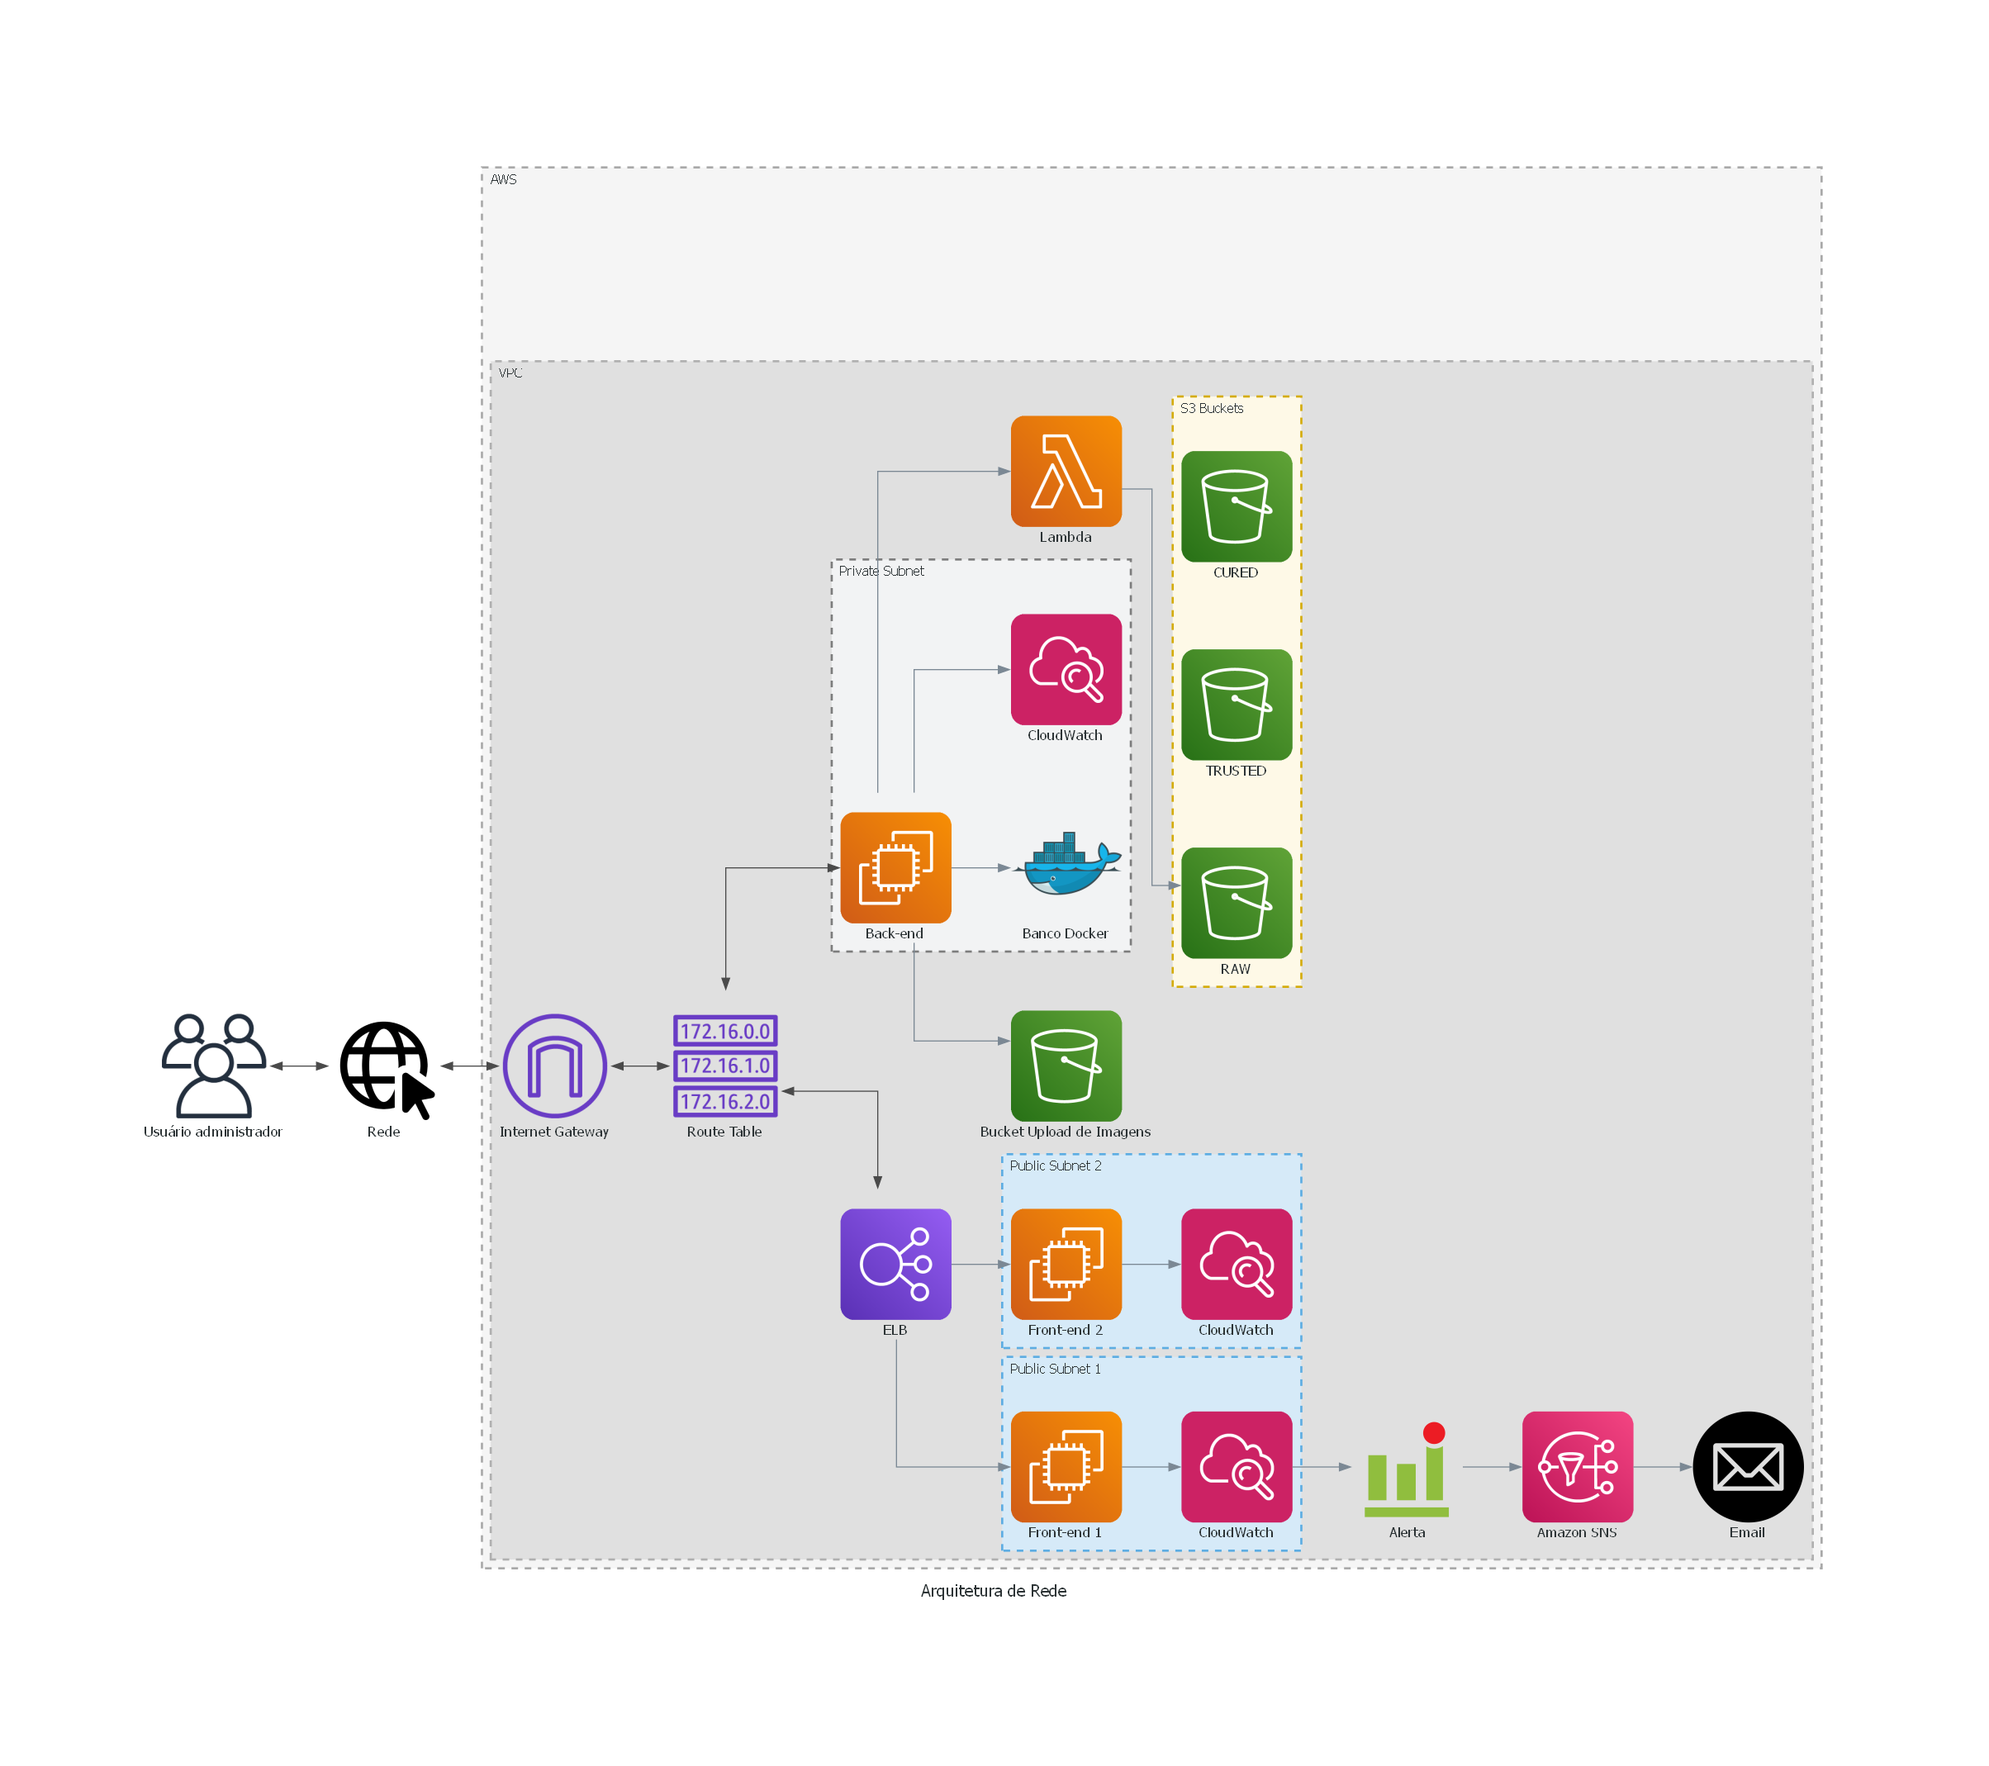
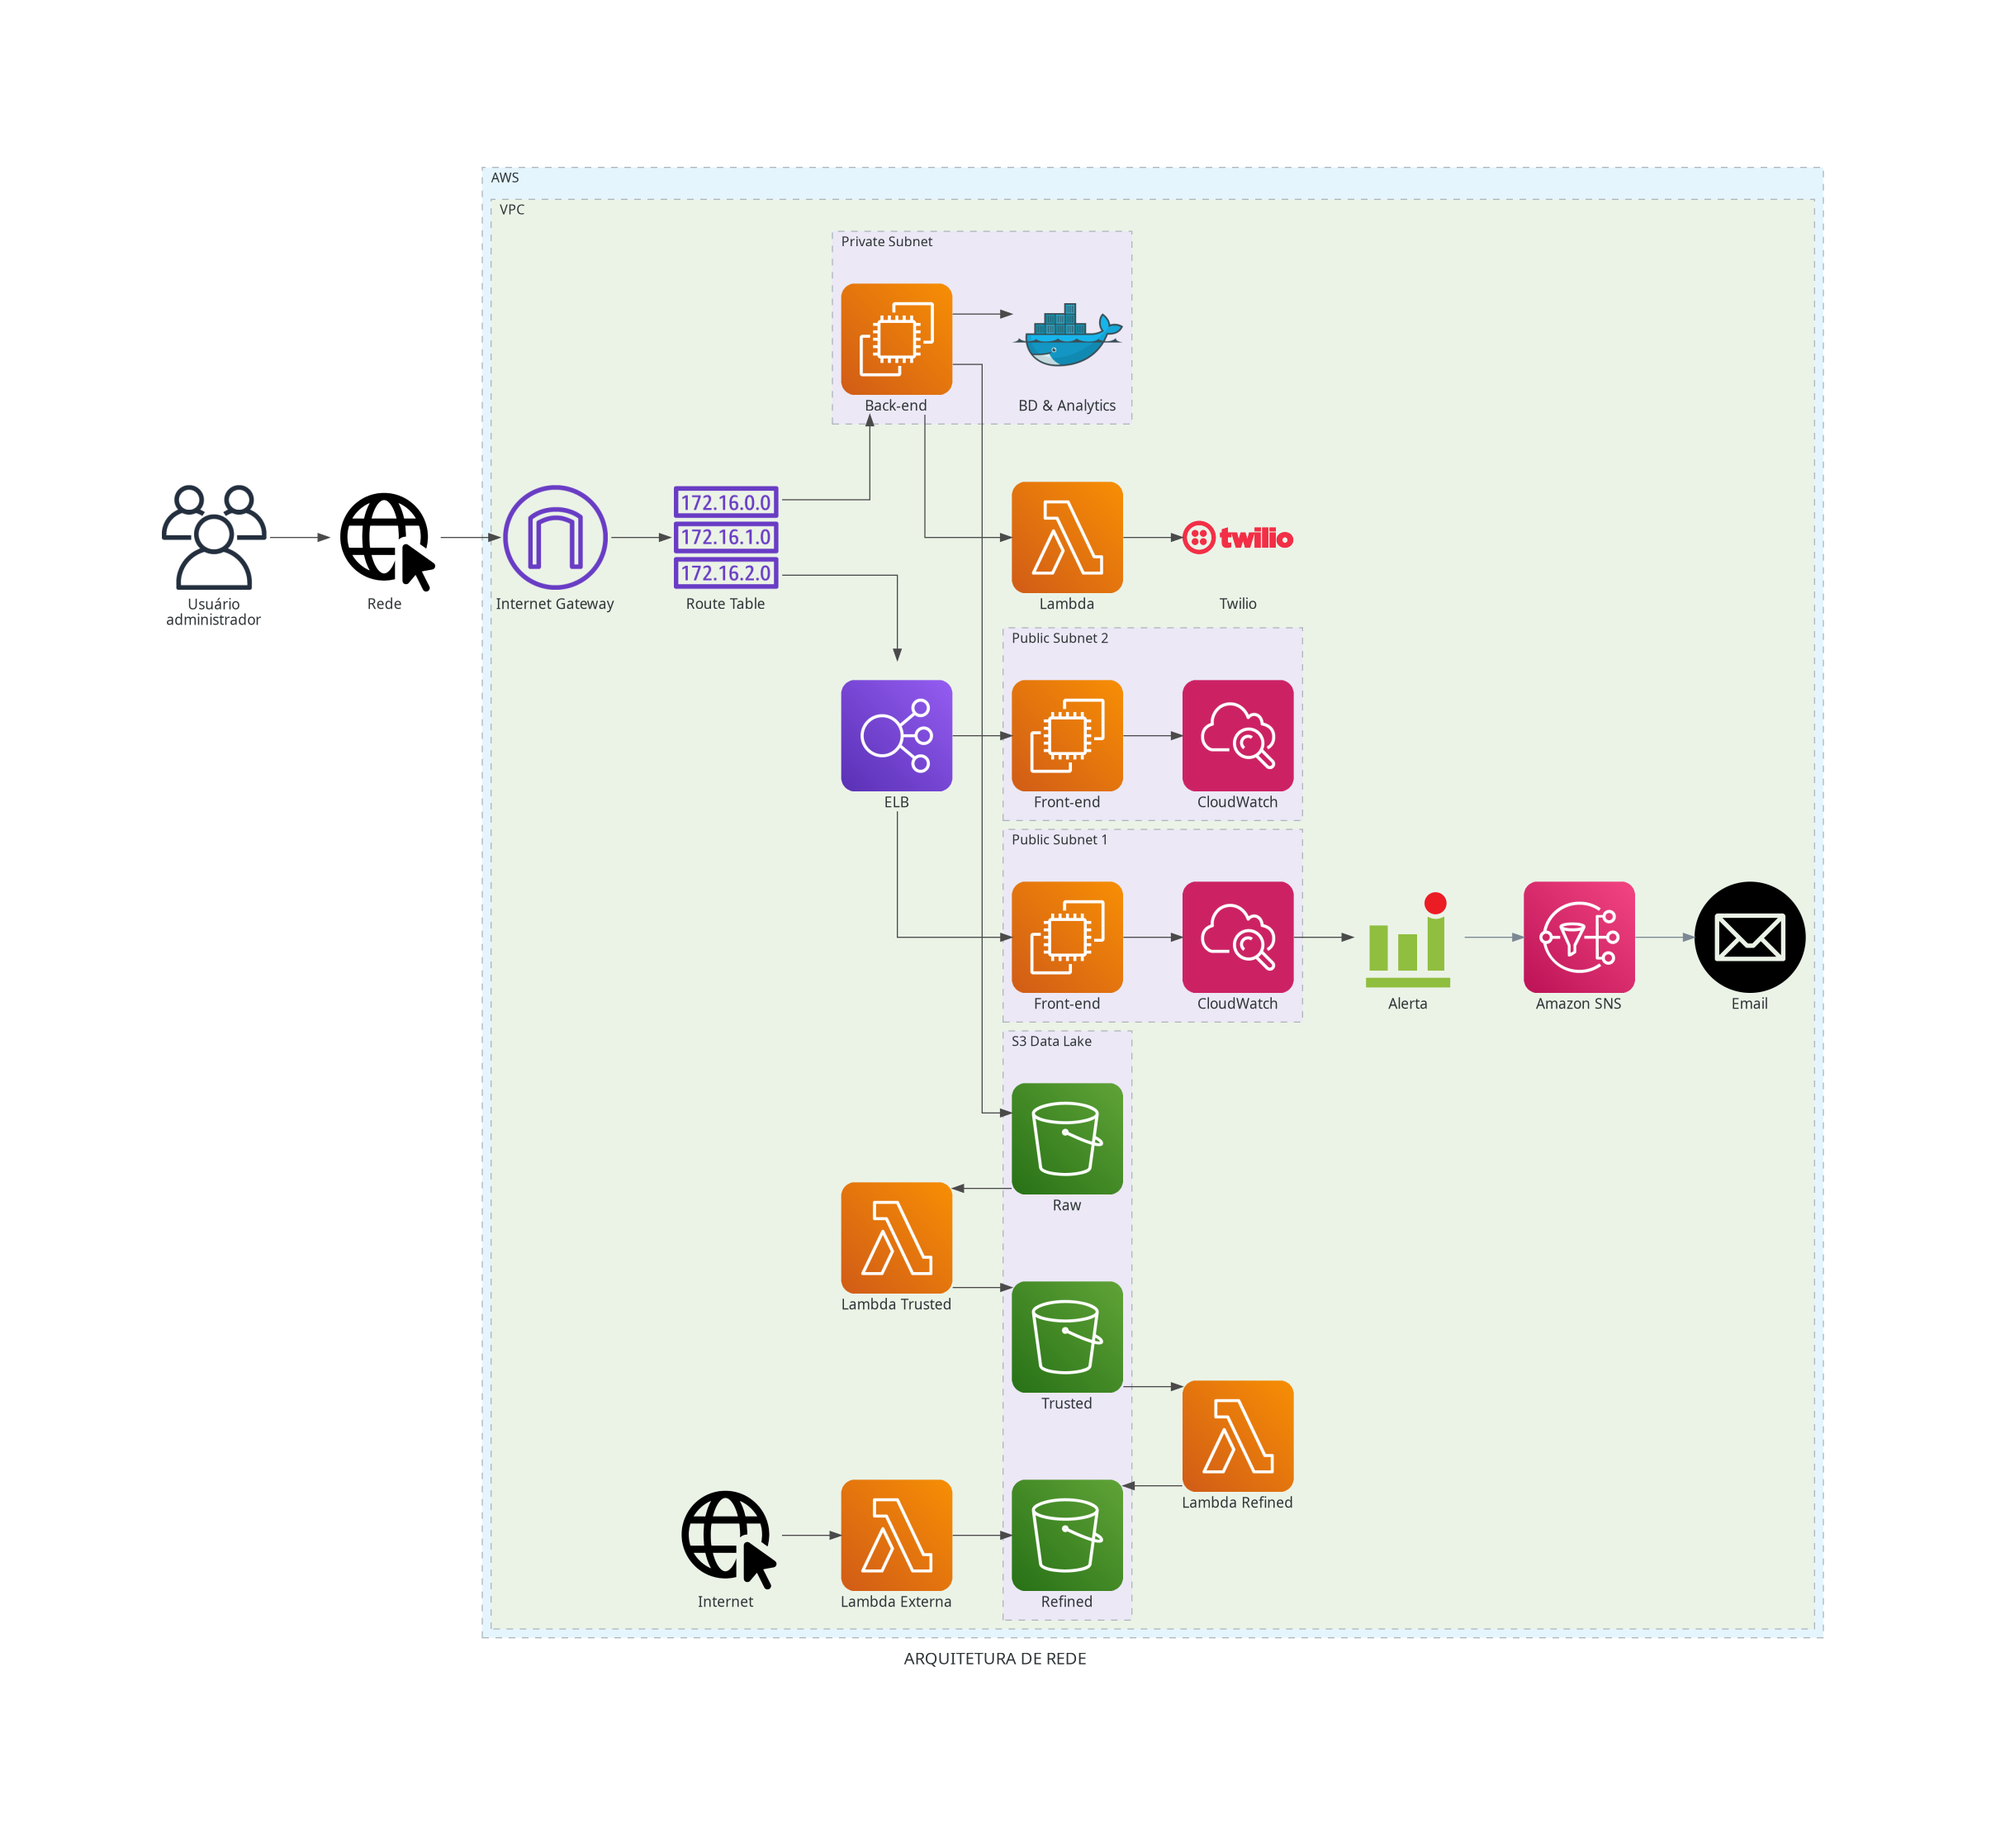
Atualizando a arquitetura para incluir novas lambdas

diff --git a/Diagrama/arquiteturaRede.py b/Diagrama/arquiteturaRede.py
@@ -1,69 +1,84 @@
 from diagrams import Diagram, Cluster, Edge
 from diagrams.onprem.client import Users
-from diagrams.aws.network import InternetGateway, RouteTable, VPC
+from diagrams.aws.network import InternetGateway, RouteTable, VPC, ELB
 from diagrams.aws.compute import EC2, Lambda
-from diagrams.aws.network import ELB
 from diagrams.aws.management import Cloudwatch
 from diagrams.aws.integration import SNS
 from diagrams.aws.storage import S3
 from diagrams.custom import Custom
 from diagrams.onprem.container import Docker
 
-with Diagram("Arquitetura de Rede", direction="LR"):
+with Diagram("ARQUITETURA DE REDE", direction="LR", show=False):
 
-    usuario = Users("Usuário administrador")
+    # Usuário e Rede
+    usuario = Users("Usuário\nadministrador")
+    rede = Custom("Rede", "./Imagens/rede.png")
 
-    rede_custom = Custom("Rede", "./Imagens/rede.png")
+    # Conexão externa
+    usuario >> Edge(color="#4A4A4A") >> rede
 
-    with Cluster("AWS", graph_attr={"style": "dashed, filled", "color": "#F5F5F5", "penwidth": "2", "pencolor": "#A9A9A9"}):
-        
-        aws_logo = Custom("", "./logo_aws.png")
-
-        with Cluster("VPC", graph_attr={"style": "dashed,filled", "color": "#E0E0E0", "penwidth": "2", "pencolor": "#B0B0B0"}):
-            
+    with Cluster("AWS", graph_attr={"style": "dashed"}):
+        with Cluster("VPC", graph_attr={"style": "dashed"}):
             igw = InternetGateway("Internet Gateway")
             route_table = RouteTable("Route Table")
             lb = ELB("ELB")
 
-            usuario >> Edge(color="#4A4A4A") << rede_custom >> Edge(color="#4A4A4A") << igw
-            igw >> Edge(color="#4A4A4A") << route_table >> Edge(color="#4A4A4A") << lb
+            rede >> Edge(color="#4A4A4A") >> igw >> Edge(color="#4A4A4A") >> route_table >> Edge(color="#4A4A4A") >> lb
 
-            with Cluster("Public Subnet 1", graph_attr={"style": "dashed,filled", "color": "#D6EAF8", "pencolor": "#5DADE2"}):
-                fe1 = EC2("Front-end 1")
+            # Subnets públicas
+            with Cluster("Public Subnet 1", graph_attr={"style": "dashed", "color": "#90EE90"}):
+                fe1 = EC2("Front-end")
                 cw1 = Cloudwatch("CloudWatch")
-                lb >> fe1
-                fe1 >> cw1
 
-            with Cluster("Public Subnet 2", graph_attr={"style": "dashed,filled", "color": "#D6EAF8", "pencolor": "#5DADE2"}):
-                fe2 = EC2("Front-end 2")
+            with Cluster("Public Subnet 2", graph_attr={"style": "dashed", "color": "#90EE90"}):
+                fe2 = EC2("Front-end")
                 cw2 = Cloudwatch("CloudWatch")
-                lb >> fe2
-                fe2 >> cw2
 
-            with Cluster("Private Subnet", graph_attr={"style": "dashed,filled", "color": "#F2F3F4", "pencolor": "#7D7D7D"}):
+            lb >> Edge(color="#4A4A4A") >> [fe1, fe2]
+            fe1 >> Edge(color="#4A4A4A") >> cw1
+            fe2 >> Edge(color="#4A4A4A") >> cw2
+
+            # Subnet privada
+            with Cluster("Private Subnet", graph_attr={"style": "dashed", "color": "#FFB6C1"}):
                 be = EC2("Back-end")
-                banco = Docker("Banco Docker")
-                cw3 = Cloudwatch("CloudWatch")
-                be >> banco
+                bd = Docker("BD & Analytics")
 
-            route_table >> Edge(color="#4A4A4A") << be >> cw3
+            be >> Edge(color="#4A4A4A") >> bd
+            route_table >> Edge(color="#4A4A4A") >> be
 
-            with Cluster("S3 Buckets", graph_attr={"style": "dashed,filled", "color": "#FEF9E7", "pencolor": "#D4AC0D"}):
-                s3_raw = S3("RAW")
-                s3_trusted = S3("TRUSTED")
-                s3_cured = S3("CURED")
+            # S3 Data Lake: RAW -> (Lambda TRUSTED) -> TRUSTED -> (Lambda CURED) -> CURED
+            with Cluster("S3 Data Lake", graph_attr={"style": "dashed", "color": "#D4AC0D"}):
+                s3_raw = S3("Raw")
+                s3_trusted = S3("Trusted")
+                s3_cured = S3("Refined")
 
-            lambda_func = Lambda("Lambda")
-            be >> lambda_func
-            lambda_func >> s3_raw
+            # Lambdas entre buckets (removida a lambda central)
+            lambda_trusted = Lambda("Lambda Trusted")
+            lambda_cured = Lambda("Lambda Refined")
+            lambda_ = Lambda("Lambda")
+            lambda_externa = Lambda("Lambda Externa")
 
-            s3_extra = S3("Bucket Upload de Imagens")
-            be >> s3_extra
-            
-           
-            sns = SNS("Amazon SNS")
+            # Fluxo solicitado:
+            # Backend escreve no RAW, depois processamento entre buckets:
+            be >> Edge(color="#4A4A4A") >> s3_raw
+            s3_raw >> Edge(color="#4A4A4A") >> lambda_trusted >> Edge(color="#4A4A4A") >> s3_trusted
+            s3_trusted >> Edge(color="#4A4A4A") >> lambda_cured >> Edge(color="#4A4A4A") >> s3_cured
+
+            # Twilio (notificações externas) ligado ao processamento de trusted (ajustável)
+            twilio = Custom("Twilio", "./Imagens/twilio.png")
+
+            # CloudWatch envia alerta
             alerta = Custom("Alerta", "./Imagens/alerta.png")
-            cw1 >> alerta
-            alerta >> sns
+            cw1 >> Edge(color="#4A4A4A") >> alerta
+
+            # SNS e e-mail
+            sns = SNS("Amazon SNS")
             email = Custom("Email", "./Imagens/email.png")
-            sns >> email
+            alerta >> sns >> email
+
+            be >> Edge(color="#4A4A4A") >> lambda_
+            lambda_ >> Edge(color="#4A4A4A") >> twilio
+
+            # Internet (ícone adicionado) e integração externa
+            internet = Custom("Internet", "./Imagens/rede.png")
+            internet >> Edge(color="#4A4A4A") >> lambda_externa >> Edge(color="#4A4A4A") >> s3_cured
